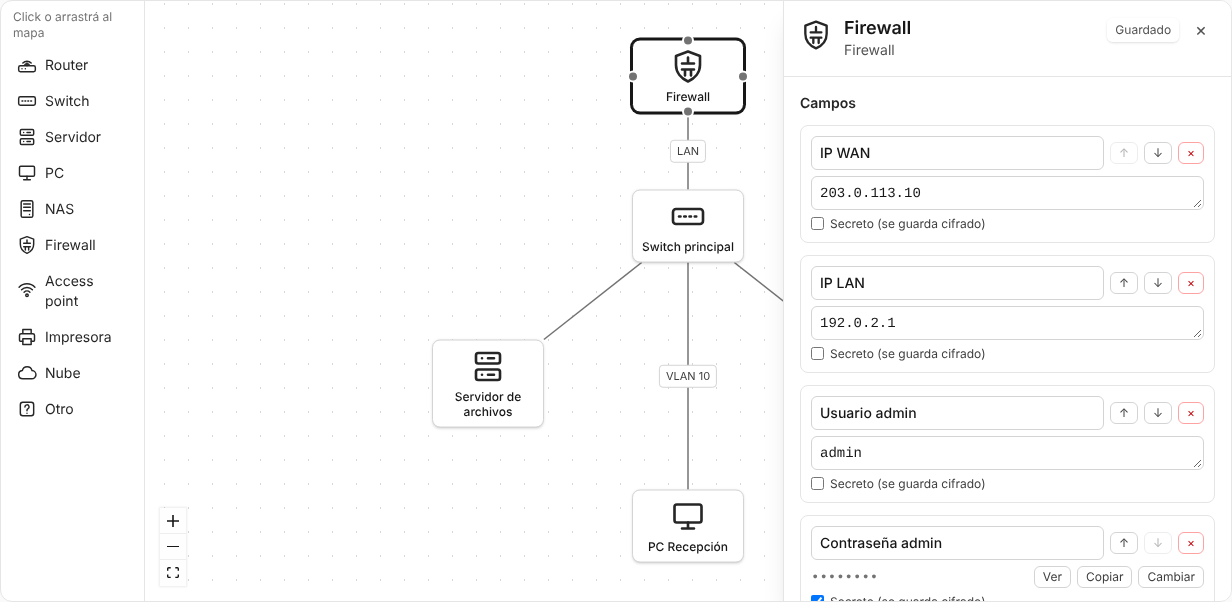
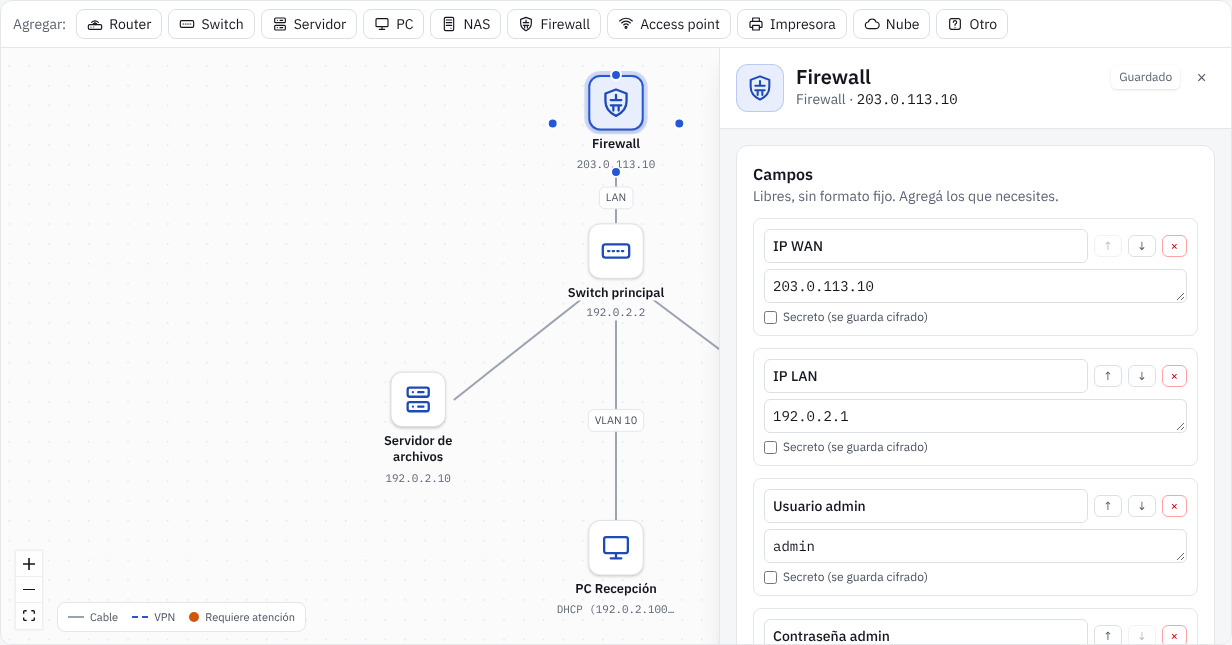
docs: update the user guide to the new interface
Assisted-by: Claude Code:claude-opus-5-5
Claude-Session: https://claude.ai/code/session_01YWWYvrmHQhWfoCmParFjSt

diff --git a/docs/user-guide.md b/docs/user-guide.md
@@ -38,9 +38,12 @@ Si fallás varias veces seguidas, la app te frena unos minutos: esperá y volvé
 
 ## 2. Cargar un cliente
 
-![Lista de clientes](images/user-guide/02-clientes.png)
+![Pantalla de inicio con los clientes](images/user-guide/02-clientes.png)
 
-La pantalla principal es la lista de clientes. El cuadro de arriba filtra la lista por nombre.
+La pantalla de inicio muestra los totales, una tarjeta por cliente (con un dibujito de su mapa) y,
+al costado, las próximas tareas, los incidentes abiertos y los últimos cambios. El cuadro
+**Filtrar por nombre…** filtra las tarjetas. **Incidentes y agenda**, arriba, junta las tareas de
+la semana y los incidentes de todos los clientes; cada renglón abre la ficha del dispositivo.
 
 1. Tocá **Nuevo cliente**.
 2. Poné el nombre y, si querés, notas: dirección, horarios, cómo se trabaja con ellos.
@@ -58,8 +61,8 @@ que tiene (dispositivos, campos, capturas).
 
 El mapa es la página principal de cada cliente.
 
-- **Agregar un dispositivo:** hacé click en un tipo de la lista de la izquierda (Router, Switch,
-  Servidor, PC, NAS…) o arrastralo al lugar del mapa donde lo quieras.
+- **Agregar un dispositivo:** hacé click en un tipo de la barra de arriba del mapa (Router,
+  Switch, Servidor, PC, NAS…) o arrastralo al lugar del mapa donde lo quieras.
 - **Moverlo:** arrastralo. La posición se guarda sola.
 - **Renombrarlo o cambiarle el tipo:** hacé un click en el dispositivo y usá el panel que aparece
   a la derecha.
@@ -69,7 +72,7 @@ El mapa es la página principal de cada cliente.
 - **Conectar dos dispositivos:** al seleccionar uno aparecen puntos en sus bordes. Arrastrá
   desde un punto hasta el otro dispositivo.
 - **Ponerle nombre a una conexión** (WAN1, VPN IPsec, VLAN 20…): hacé click en la línea y escribí
-  la etiqueta.
+  la etiqueta. Las que dicen VPN, IPsec o túnel se dibujan punteadas y en azul.
 
 ![Conexión seleccionada con su etiqueta](images/user-guide/06-conexion.png)
 
@@ -78,8 +81,9 @@ El mapa es la página principal de cada cliente.
 - **Moverte por el mapa:** arrastrá el fondo para desplazarte y usá la rueda del mouse o los
   botones + y − para el zoom. El botón de abajo de todo encuadra el mapa entero.
 
-Un dispositivo con un incidente abierto o una tarea vencida aparece marcado en el mapa, para que
-se vea de un vistazo qué necesita atención.
+Debajo de cada dispositivo se ve su IP, sacada del primer campo que se llame "IP" (o "IP LAN",
+"Dirección IP"…) y no sea secreto. Un dispositivo con un incidente abierto o una tarea vencida
+aparece marcado en naranja, para que se vea de un vistazo qué necesita atención.
 
 ## 4. Anotar los datos de un dispositivo
 
@@ -145,7 +149,7 @@ Cada lista tiene su botón **Agregar…**. Un click en un renglón lo abre para 
 
 ![Usuarios finales de un cliente](images/user-guide/09-usuarios-finales.png)
 
-Debajo del mapa está **Usuarios finales**: las personas del cliente con las que tratás. Tocá
+Al costado del mapa (o debajo, en pantallas chicas) está **Usuarios finales**: las personas del cliente con las que tratás. Tocá
 **Agregar persona** y completá lo que sirva: puesto, nivel técnico, contacto, **qué puede y qué
 no puede tocar** y **cómo tratarlo**. Una de ellas se puede marcar como **contacto principal**.
 
